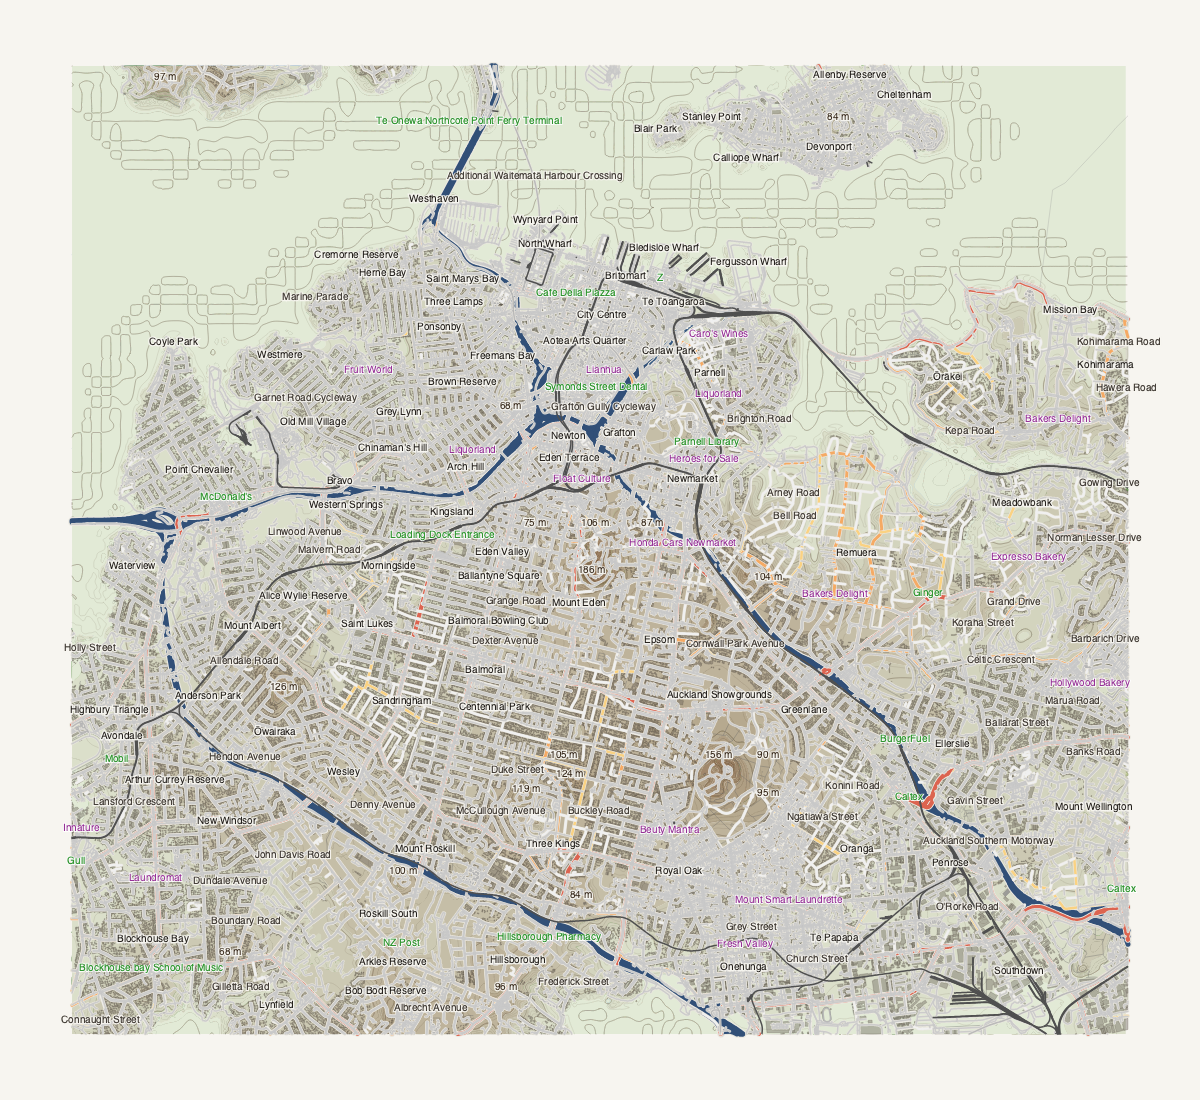
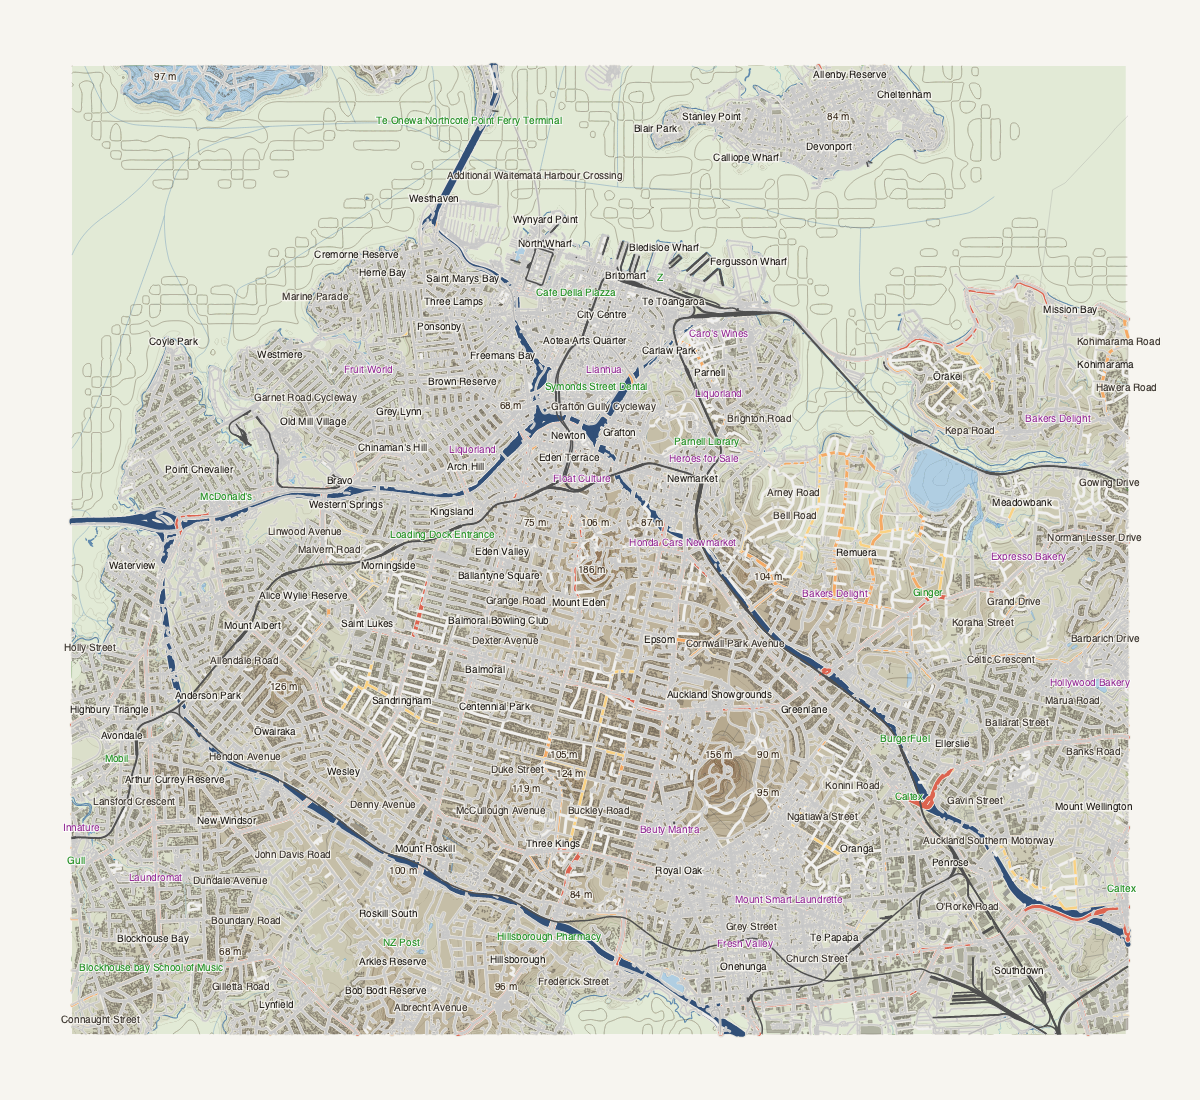
fix: the sea is drawn over the relief, not under it
Elevation bands cover the sea as well as the land — the tiles carry the sea
floor in the same band as the ground — and a hypsometric band fill is opaque.
Drawn after the water, they painted the harbour out: the Auckland plate infers
the Waitemata correctly from the coastline and then hid it under a land tint.

Water above the relief also puts it above the land cover, which is a consequence
rather than a second decision, and the right one either way: an OSM park polygon
commonly includes its ponds, and drawing the park afterwards filled them in with
grass.

The plate is re-rendered from the same cached fetch, so the only difference in
it is the order.

diff --git a/tests/test_scene_builder.py b/tests/test_scene_builder.py
@@ -3,7 +3,7 @@ from __future__ import annotations
 import unittest
 
 from hipparchus.application.presets import GeometryPipelineProfile, StyleProfile, default_preset
-from hipparchus.application.scene_builder import RenderSceneBuilder
+from hipparchus.application.scene_builder import RenderSceneBuilder, _ordered_layers
 from hipparchus.data_sources.provider import FeatureCollection
 
 
@@ -233,6 +233,65 @@ class RenderSceneBuilderTests(unittest.TestCase):
             (scene.background.r, scene.background.g, scene.background.b),
             (expected.r, expected.g, expected.b),
         )
+
+
+class DrawOrderTests(unittest.TestCase):
+    """Where the sea sits in the stack.
+
+    Elevation bands cover the sea as well as the land — the tiles carry the sea
+    floor in the same band as the ground — and a hypsometric band fill is
+    opaque. Drawn after the water, they paint the harbour out: the Auckland
+    plate infers the Waitematā correctly from the coastline and then hides it
+    under a land tint. A printed sheet draws the sea *over* the hypsometric
+    tint, and so does this now.
+    """
+
+    TERRAIN = {
+        "coastline", "water", "parks", "elevation_bands", "terrain_hillshade",
+        "bathymetry", "terrain_contours", "terrain_index_contours",
+        "buildings", "roads_primary", "places",
+    }
+
+    def order(self) -> list[str]:
+        return _ordered_layers(self.TERRAIN)
+
+    def test_the_sea_is_drawn_over_the_relief(self) -> None:
+        order = self.order()
+        self.assertLess(order.index("elevation_bands"), order.index("water"))
+        self.assertLess(order.index("terrain_hillshade"), order.index("water"))
+
+    def test_the_relief_still_sits_over_the_land_cover(self) -> None:
+        """It is a tint on the ground, not a layer beside it."""
+        self.assertLess(self.order().index("parks"), self.order().index("elevation_bands"))
+
+    def test_depth_and_contours_are_drawn_over_the_water_they_describe(self) -> None:
+        order = self.order()
+        for layer in ("bathymetry", "terrain_contours", "terrain_index_contours"):
+            with self.subTest(layer=layer):
+                self.assertLess(order.index("water"), order.index(layer))
+
+    def test_the_built_environment_still_sits_on_top_of_all_of_it(self) -> None:
+        order = self.order()
+        for layer in ("coastline", "water", "elevation_bands", "terrain_contours"):
+            with self.subTest(layer=layer):
+                self.assertLess(order.index(layer), order.index("buildings"))
+                self.assertLess(order.index(layer), order.index("roads_primary"))
+
+    def test_labels_are_last(self) -> None:
+        order = self.order()
+        self.assertEqual(order[-1], "places")
+
+    def test_water_is_drawn_over_the_land_cover_too(self) -> None:
+        """A consequence rather than a separate decision, and the right one.
+
+        Relief has to sit above land cover — it is a tint on the ground — and
+        below the water, or it paints the sea out. Both together put water above
+        land cover. That is also how it should have been: an OSM park polygon
+        commonly includes its ponds, and drawing the park afterwards filled them
+        in with grass.
+        """
+        plain = _ordered_layers({"coastline", "water", "parks", "buildings", "roads_primary"})
+        self.assertEqual(plain, ["parks", "coastline", "water", "buildings", "roads_primary"])
 
 
 if __name__ == "__main__":

diff --git a/src/hipparchus/application/scene_builder.py b/src/hipparchus/application/scene_builder.py
@@ -651,8 +651,6 @@ def _label_anchor(geometry: BaseGeometry) -> tuple[float, float] | None:
 def _ordered_layers(layer_names: set[str] | list[str] | tuple[str, ...]) -> list[str]:
     preferred = [
         # Background layers (large areas)
-        "coastline",
-        "water",
         "fields",
         "forests",
         "natural",
@@ -662,6 +660,15 @@ def _ordered_layers(layer_names: set[str] | list[str] | tuple[str, ...]) -> list
         # a printed topographic sheet stacks it.
         "elevation_bands",
         "terrain_hillshade",
+        # The sea goes *over* the relief, not under it. Elevation bands cover
+        # the sea as well as the land — the tiles carry the sea floor in the
+        # same band as the ground — and a hypsometric band fill is opaque, so
+        # drawing them afterwards paints the water out. The Auckland plate
+        # infers the Waitematā correctly from the coastline and then hides it
+        # under a land tint, which is what this ordering is for.
+        "coastline",
+        "water",
+        # Depth and contours describe the water, so they are drawn on it.
         "bathymetry",
         "terrain_contours",
         "terrain_index_contours",
